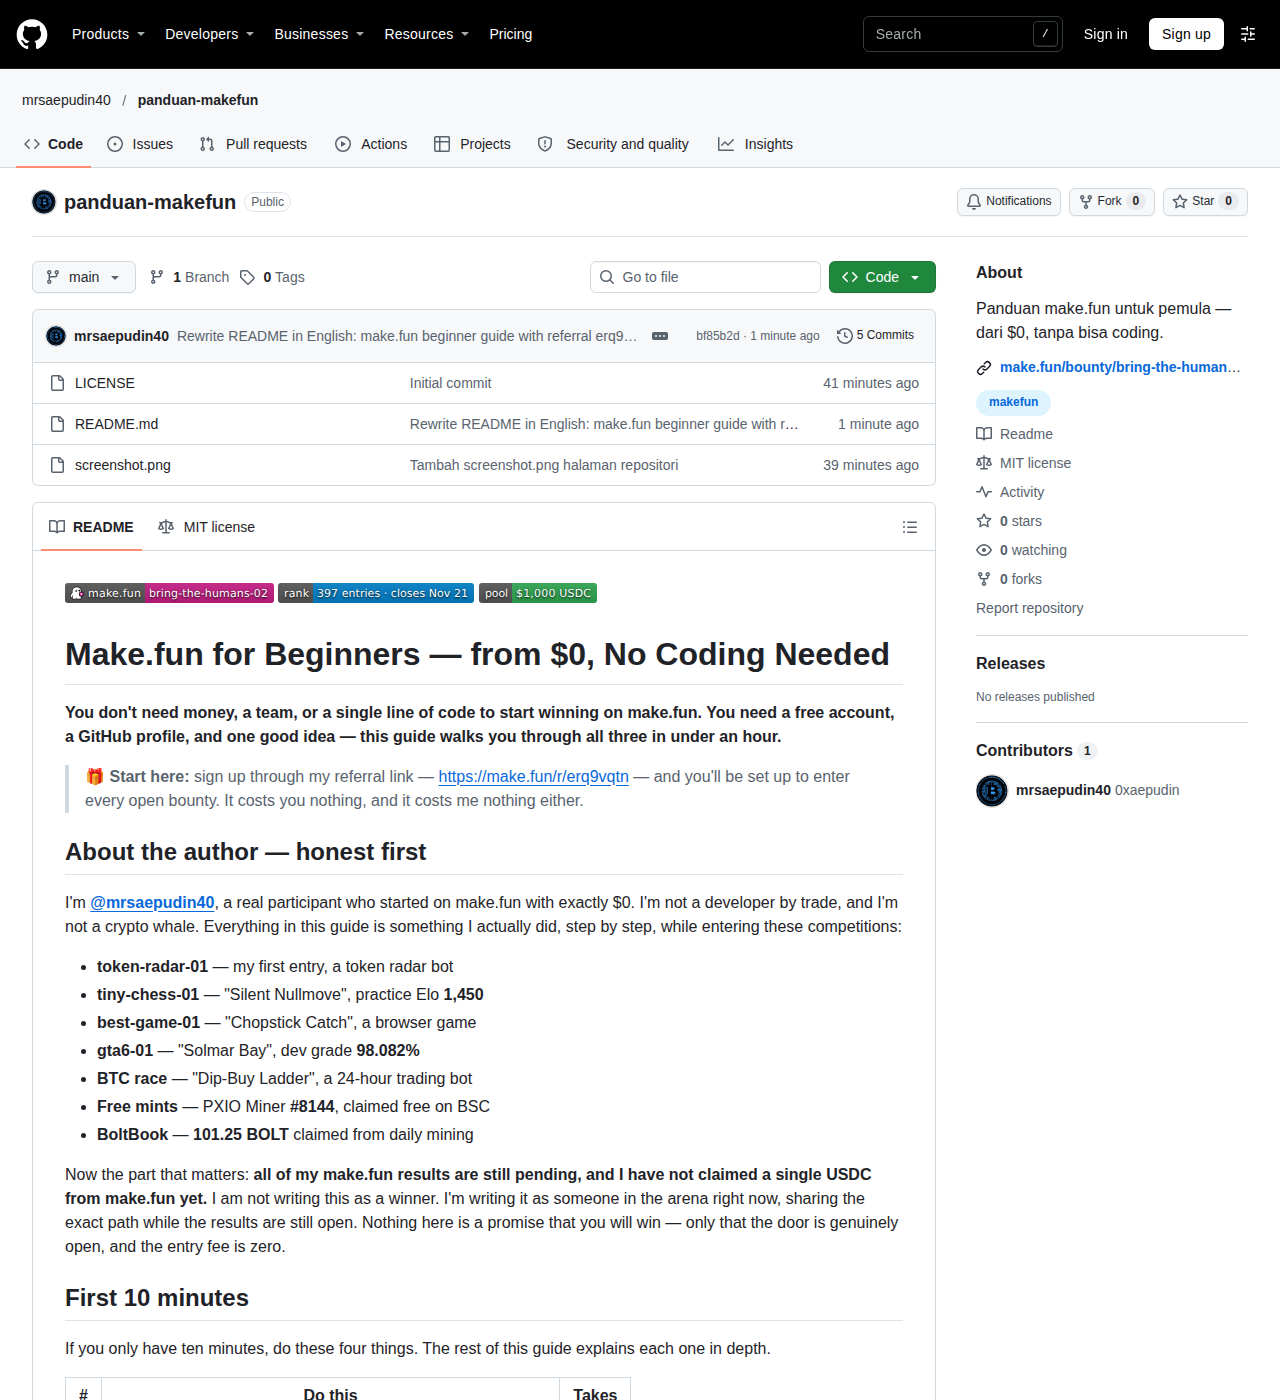
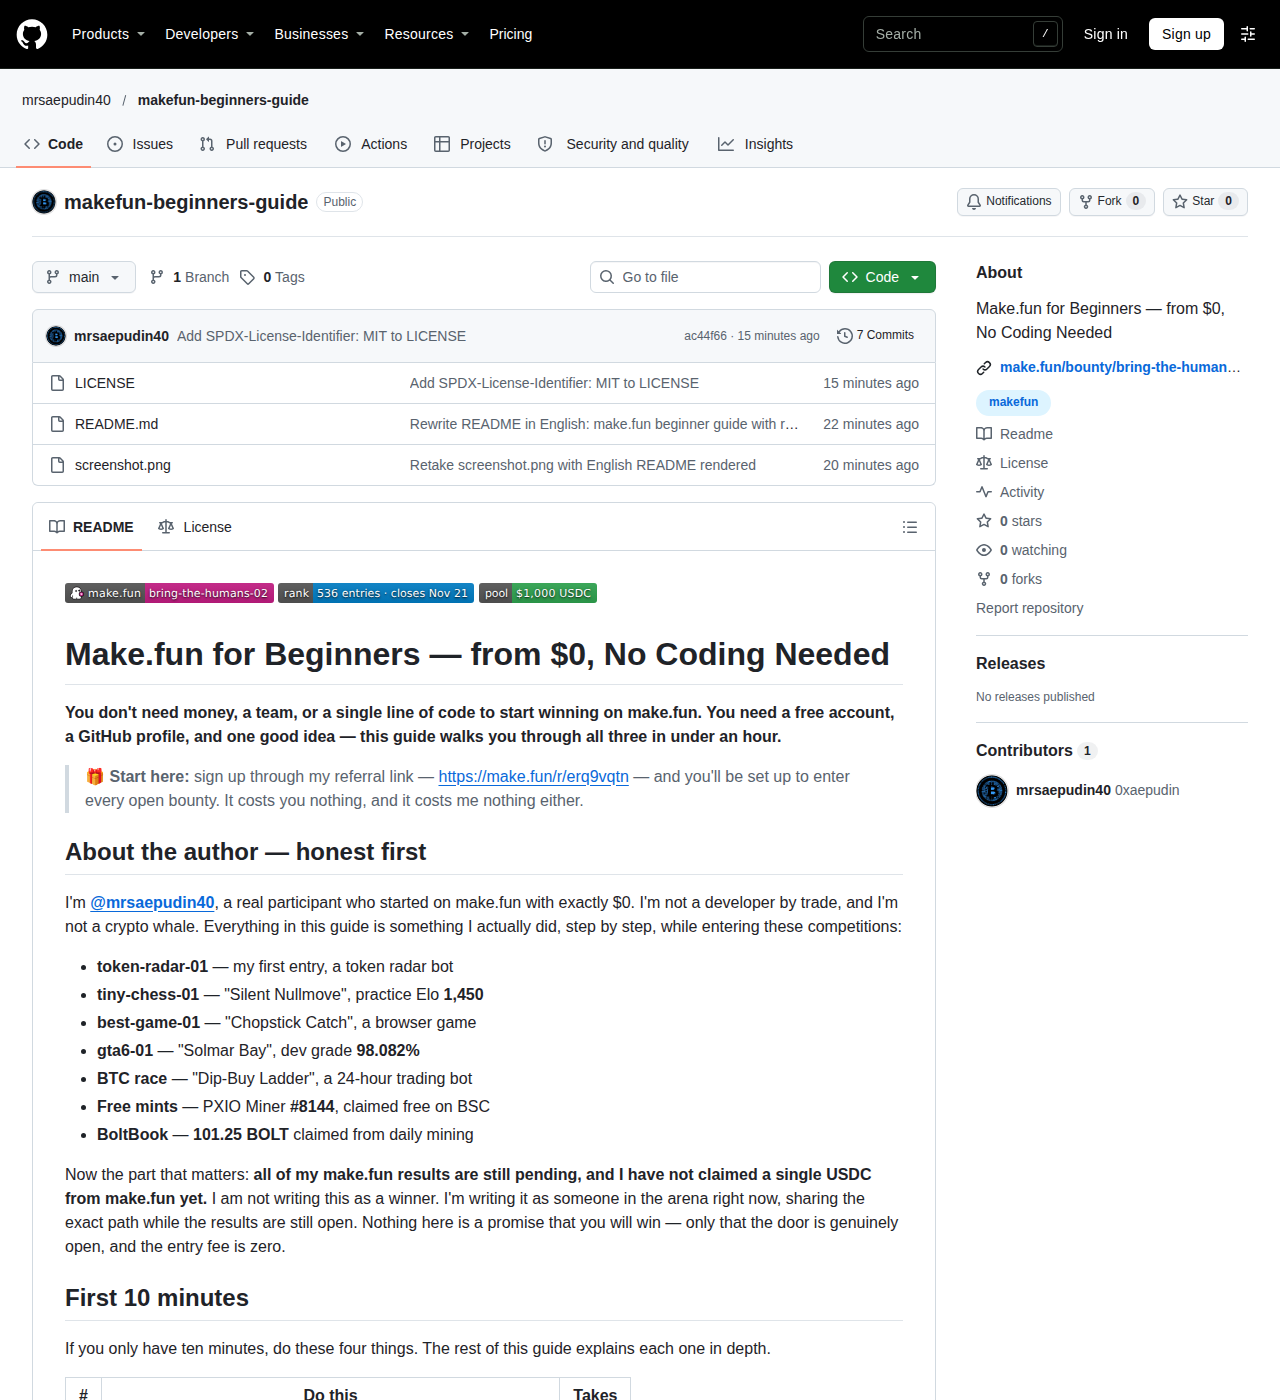
Rename repo to makefun-beginners-guide: update badge URLs, retake screenshot

diff --git a/README.md b/README.md
@@ -1,6 +1,6 @@
 [![make.fun · bring-the-humans-02](https://make.fun/badge/bring-the-humans-02.svg)](https://make.fun/bounty/bring-the-humans-02)
-[![rank](https://make.fun/badge/bring-the-humans-02/mrsaepudin40/panduan-makefun/rank.svg)](https://make.fun/bounty/bring-the-humans-02/leaderboard)
-[![reward](https://make.fun/badge/bring-the-humans-02/mrsaepudin40/panduan-makefun/reward.svg)](https://make.fun/bounty/bring-the-humans-02)
+[![rank](https://make.fun/badge/bring-the-humans-02/mrsaepudin40/makefun-beginners-guide/rank.svg)](https://make.fun/bounty/bring-the-humans-02/leaderboard)
+[![reward](https://make.fun/badge/bring-the-humans-02/mrsaepudin40/makefun-beginners-guide/reward.svg)](https://make.fun/bounty/bring-the-humans-02)
 
 # Make.fun for Beginners — from $0, No Coding Needed
 
